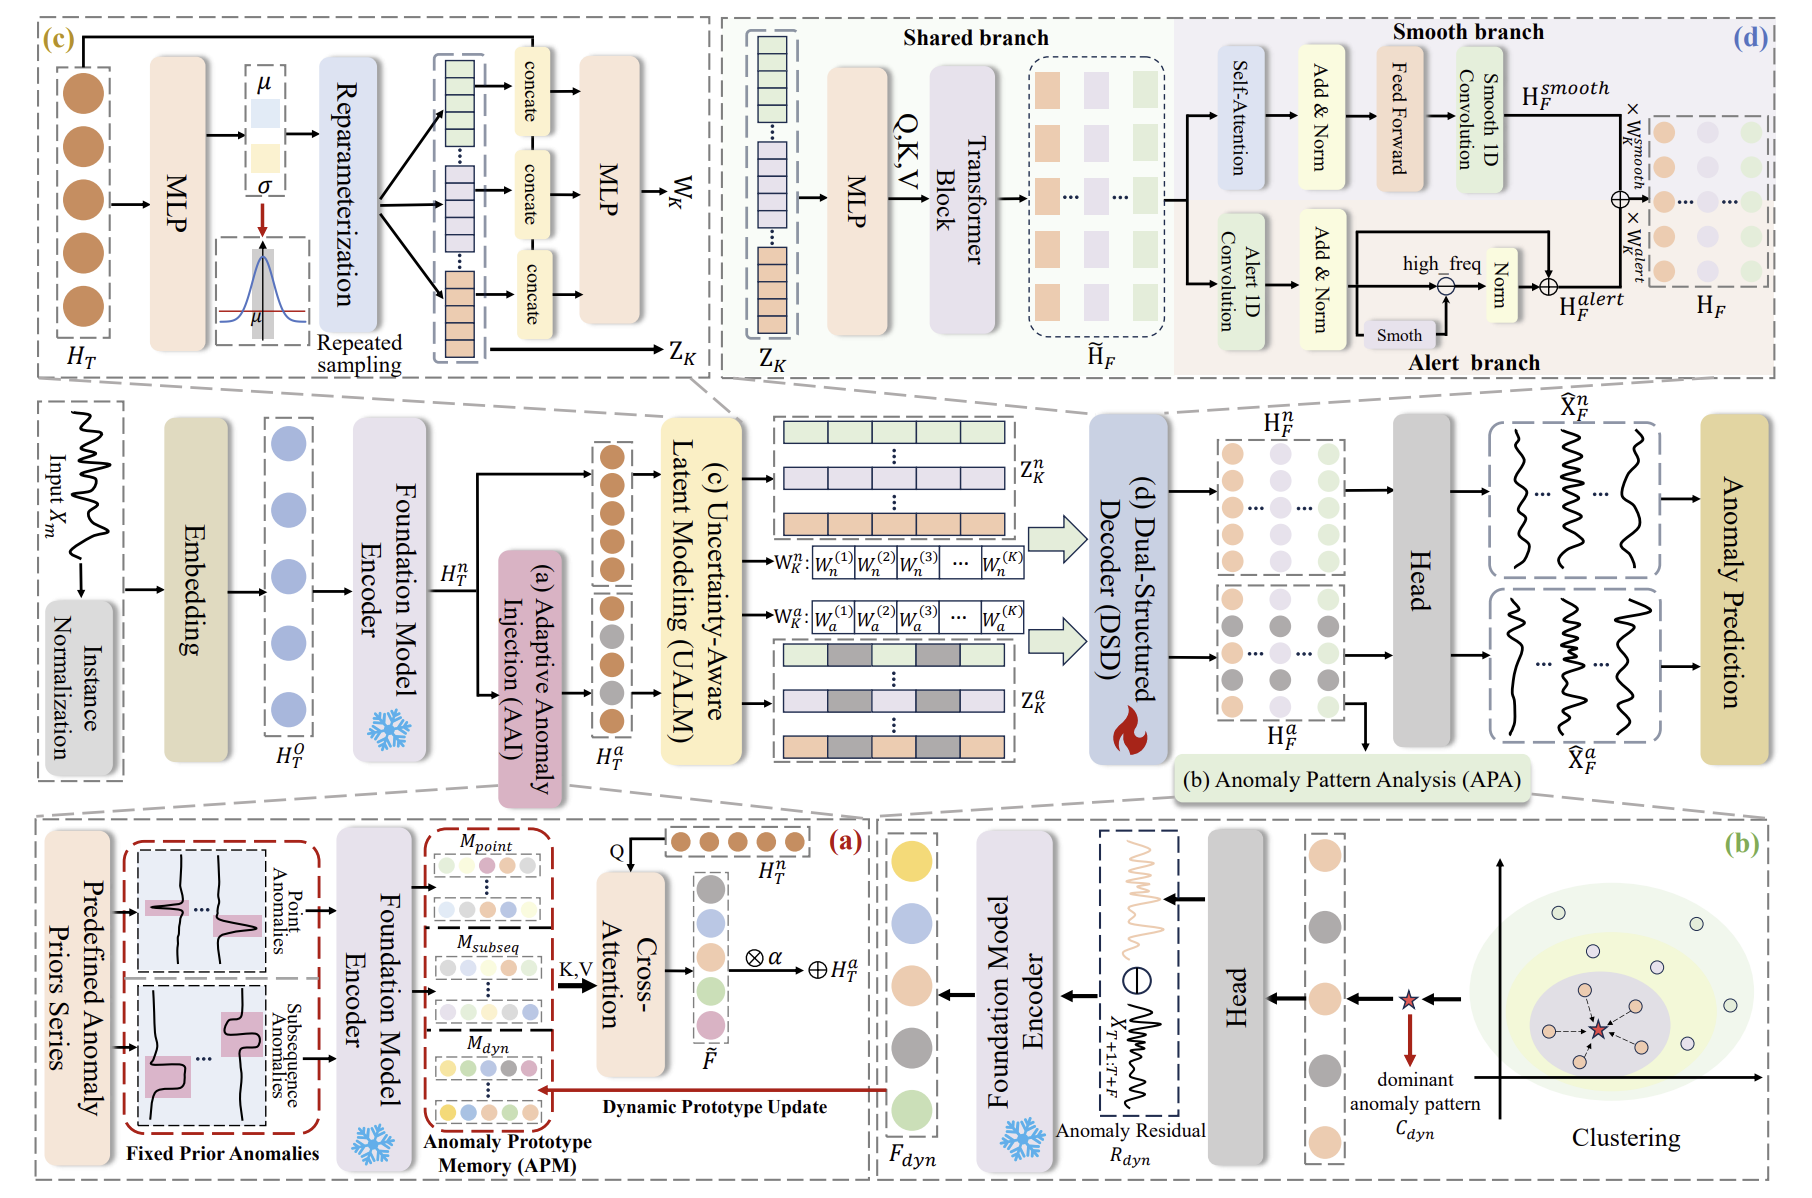
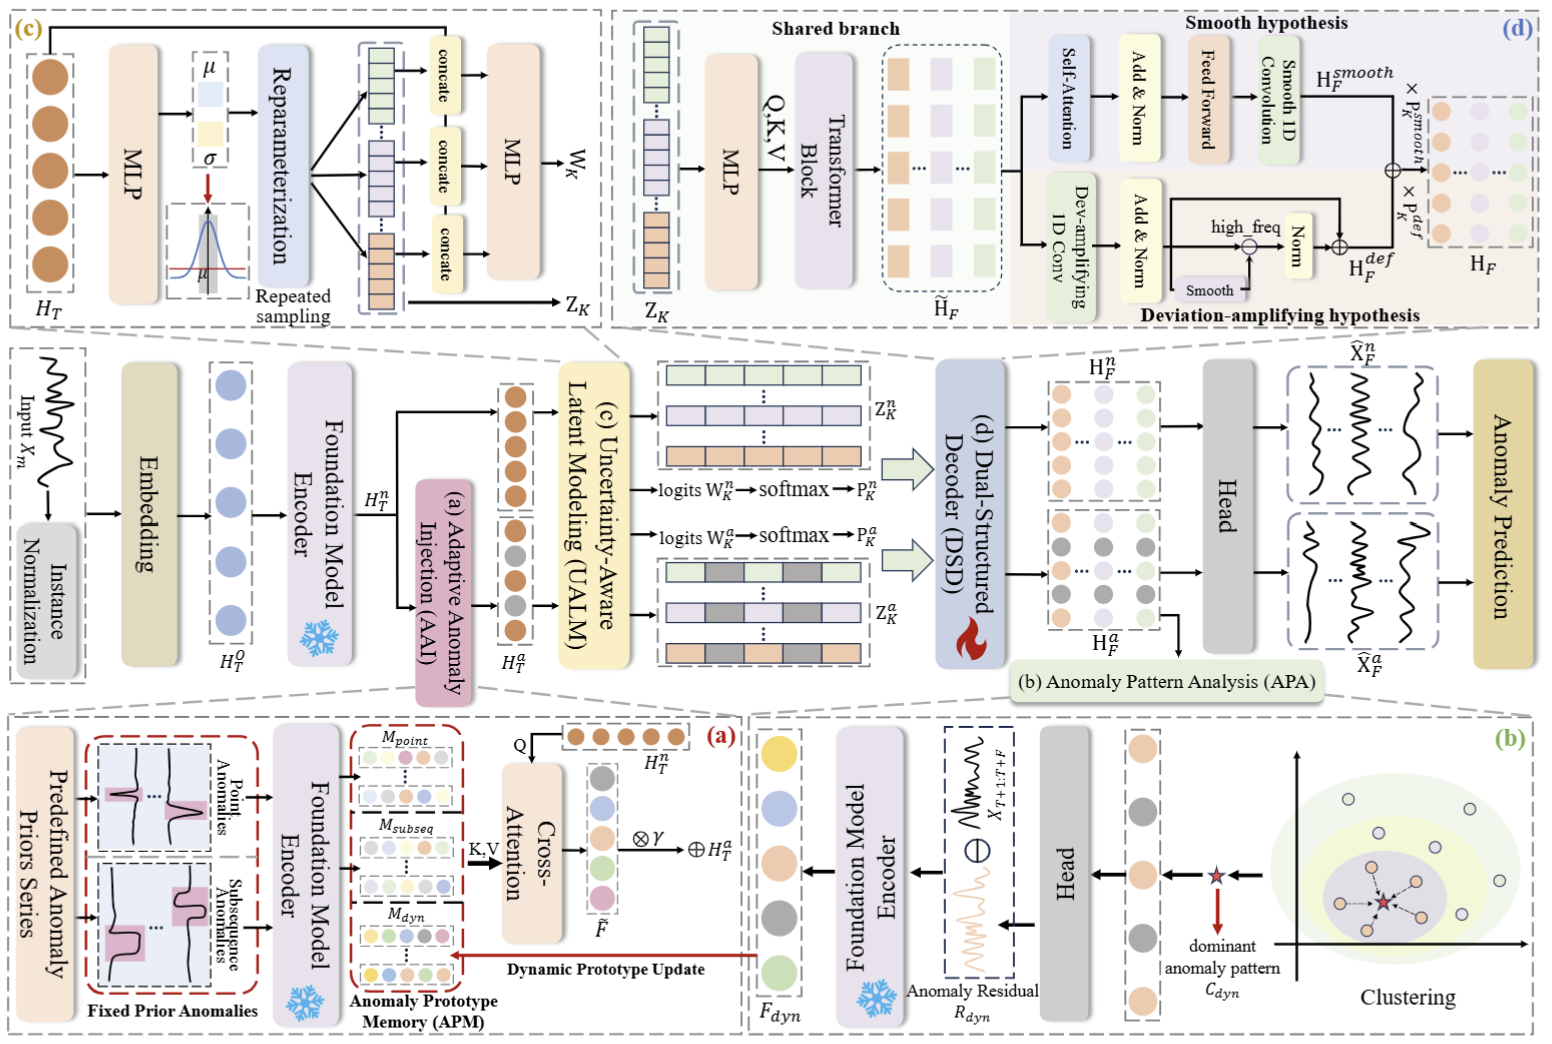
Update README and figures

diff --git a/README.md b/README.md
@@ -1,7 +1,7 @@
 # EVOLVE: Multivariate Time Series Anomaly Prediction with Uncertainty-Aware, Adaptive Prototype Memories
 
 ## Introduction
-Unsupervised time series anomaly prediction (AP) aims to forecast potential anomalies, providing early-warning signals for proactive intervention and predictive maintenance in complex systems. Most existing AP methods follow a perturbation-based paradigm, which simulates anomaly perturbations on historical time series to model abnormal future evolution in the absence of labeled anomalies. However, current approaches still suffer from two fundamental limitations. First, anomaly perturbations are static or random and do not consider the specific characteristics of each time series, failing to adapt to the heterogeneous sensitivity of different time series. Second, existing methods rely on deterministic historical representations and assume that the future time series follows a single fixed evolution path, overlooking the inherent uncertainty in future dynamics. To address these challenges, we propose $\textbf{EVOLVE}$, a novel time series anomaly prediction method that considers variable-wise anomaly perturbations and uncertainty-aware future evolution. Our method learns adaptive, variable-wise anomaly patterns to capture diverse anomaly structures for heterogeneous time series, while simultaneously modeling multiple plausible future paths for uncerta-inty-aware anomaly prediction. Extensive experiments on six benchmark datasets demonstrate that our method consistently outperforms state-of-the-art baselines.
+Unsupervised multivariate time series anomaly prediction (AP) aims to estimate future anomaly risks from current observations, providing early-warning signals for proactive intervention and maintenance in complex systems. Existing unsupervised AP methods follow a perturbation-based paradigm, where predefined or random perturbations are injected into historical windows to simulate abnormal future evolution. However, these methods share perturbations across different variables and contexts, and learn deterministic history-to-future evolution. In reality, anomaly evolution is variable- and context-dependent: the same perturbation may be amplified into abnormal future dynamics in one variable or context, while being absorbed as normal fluctuation in another. In addition, future evolution is not uniquely determined by a historical window, since similar histories may lead to multiple plausible trajectories, such as  gradual degradation or abrupt changes. To address these problems, we propose $\textbf{EVOLVE}$, a unified framework that models unsupervised AP via variable- and context-conditioned perturbations and uncertainty-aware future reasoning. EVOLVE constructs context-specific anomaly perturbations through an adaptive anomaly prototype memory, which can dynamically update and retrieve relevant perturbations at the variable level. EVOLVE models uncertainty by sampling multiple latent historical states and decoding through complementary smooth and deviation-amplifying evolution hypotheses, and the disagreement among decoded future trajectories is used to estimate future anomaly risk. Extensive experiments on six real-world benchmark datasets demonstrate that EVOLVE consistently outperforms state-of-the-art anomaly prediction baselines.
 
 
 <div style="text-align: center;">